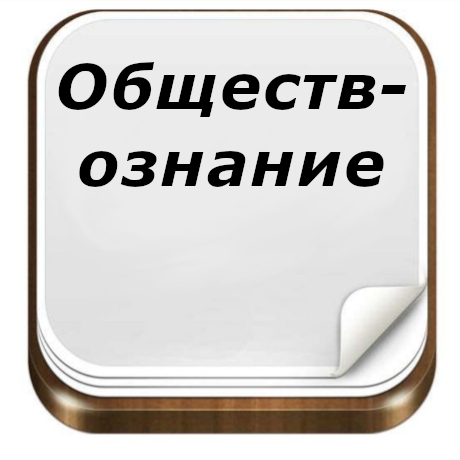
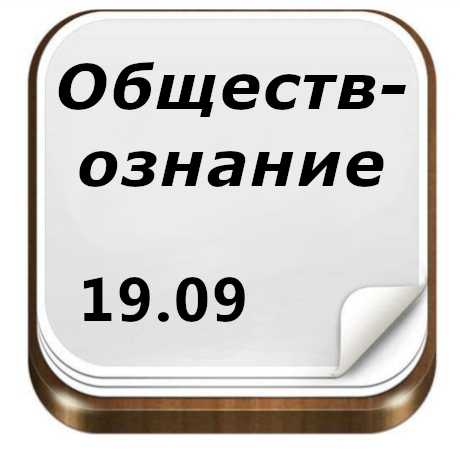
add date on img/delete <p>date</p>

Changed region(s): [[0.1826, 0.5783, 0.5478, 0.7]]

diff --git a/index.html b/index.html
@@ -31,7 +31,6 @@
                     <figure>
                         <a href="https://forms.gle/5eWYEhSzEtLGjJE18">
                             <img src="images/1.jpg" alt="Обществознание">
-                            <p>19.09</p>
                         </a>
                     </figure>
                 </div>
@@ -42,7 +41,6 @@
                     <figure>
                         <a href="https://forms.gle/dueKa9HebCEeFTmu6">
                             <img src="images/2.jpg" alt="Русский язык">
-                            <p>21.09</p>
                         </a>
                     </figure>
                 </div>
@@ -53,7 +51,6 @@
                     <figure>
                         <a href="https://forms.gle/nUPg8xz5vrHEQFcA7">
                             <img src="images/3.jpg" alt="Физкультура">
-                            <p>23.09</p>
                         </a>
                     </figure>
                 </div>
@@ -64,7 +61,6 @@
                     <figure>
                         <a href="https://forms.gle/s1fqMJyVnSru4rLa8">
                             <img src="images/4.jpg" alt="Английский язык">
-                            <p>26.09</p>
                         </a>
                     </figure>
                 </div>
@@ -75,7 +71,6 @@
                     <figure>
                         <a href="https://forms.gle/CBNo3GWZ3kmcwQmXA">
                             <img src="images/5.jpg" alt="Физика">
-                            <p>28.09</p>
                         </a>
                     </figure>
                 </div>
@@ -86,7 +81,6 @@
                     <figure>
                         <a href="https://forms.gle/dCT7chQpYkNxm6K76">
                             <img src="images/6.jpg" alt="Экономика">
-                            <p>30.09</p>
                         </a>
                     </figure>
                 </div>
@@ -97,7 +91,6 @@
                     <figure>
                         <a href="https://forms.gle/VoLoNYZudZdnUfXn7">
                             <img src="images/7.jpg" alt="Искусство (МХК)">
-                            <p>30.09</p>
                         </a>
                     </figure>
                 </div>
@@ -108,7 +101,6 @@
                     <figure>
                         <a href="https://forms.gle/3MuonFpMtBMe1oeE6">
                             <img src="images/8.jpg" alt="Экология">
-                            <p>03.10</p>
                         </a>
                     </figure>
                 </div>
@@ -119,7 +111,6 @@
                     <figure>
                         <a href="https://forms.gle/AvtHyX63z27STDSF6">
                             <img src="images/9.jpg" alt="История">
-                            <p>03.10</p>
                         </a>
                     </figure>
                 </div>
@@ -130,7 +121,6 @@
                     <figure>
                         <a href="https://forms.gle/cjEQsQNW6qcheWwk9">
                             <img src="images/10.jpg" alt="Химия">
-                            <p>05.10</p>
                         </a>
                     </figure>
                 </div>
@@ -141,7 +131,6 @@
                     <figure>
                         <a href="https://forms.gle/2CwQR4xcSP1sfwCF8">
                             <img src="images/11.jpg" alt="ОБЖ">
-                            <p>07.10</p>
                         </a>
                     </figure>
                 </div>
@@ -152,7 +141,6 @@
                     <figure>
                         <a href="https://forms.gle/ietioKanf7VupoWeA">
                             <img src="images/12.jpg" alt="Право">
-                            <p>10.10</p>
                         </a>
                     </figure>
                 </div>
@@ -163,7 +151,6 @@
                     <figure>
                         <a href="https://forms.gle/AdyV3hqR25tmqNyJA">
                             <img src="images/13.jpg" alt="Литература">
-                            <p>10.10</p>
                         </a>
                     </figure>
                 </div>
@@ -174,7 +161,6 @@
                     <figure>
                         <a href="https://forms.gle/Nk5pT5f82Rnhybzp8">
                             <img src="images/14.jpg" alt="Биология">
-                            <p>12.10</p>
                         </a>
                     </figure>
                 </div>
@@ -185,7 +171,6 @@
                     <figure>
                         <a href="https://forms.gle/t6JYm36MRsjWu3mq8">
                             <img src="images/15.jpg" alt="Астрономия">
-                            <p>14.10</p>
                         </a>
                     </figure>
                 </div>
@@ -196,7 +181,6 @@
                     <figure>
                         <a href="https://forms.gle/aUvSzMnBjjXiuoYE6">
                             <img src="images/16.jpg" alt="Технология">
-                            <p>17.10</p>
                         </a>
                     </figure>
                 </div>
@@ -207,7 +191,6 @@
                     <figure>
                         <a href="https://forms.gle/ff4f6BCkyWVgijXY9">
                             <img src="images/17.jpg" alt="География">
-                            <p>17.10</p>
                         </a>
                     </figure>
                 </div>
@@ -218,7 +201,6 @@
                     <figure>
                         <a href="https://forms.gle/h9AuyFqzzWLDBHNS6">
                             <img src="images/18.jpg" alt="Математика">
-                            <p>19.10</p>
                         </a>
                     </figure>
                 </div>
@@ -229,7 +211,6 @@
                     <figure>
                         <a href="https://forms.gle/XL8jsEFR2CwP9Ud59">
                             <img src="images/19.jpg" alt="Информатика">
-                            <p>26.10</p>
                         </a>
                     </figure>
                 </div>

diff --git a/style.css b/style.css
@@ -156,62 +156,11 @@ a:hover, a:active {
     margin-left: 100px;
 }
 
-.portfolio-content figure a p {
-    display: block;
-    position: absolute;
-    bottom: 50px;
-    left: 150px;
-    font-size: 30px;
-    font-weight: 600;
-}
 .portfolio-content figure img {
     display: block;
     width: 80%;
     height: auto;
     min-height: 80%;
-}
-
-@media screen and (max-width: 576px) {
-    .portfolio-content figure a p {
-        display: block;
-        position: absolute;
-        bottom: 40px;
-        left: 150px;
-        font-size: 30px;
-        font-weight: 600;
-    }
-}
-
-@media screen and (max-width: 768px) {
-    .portfolio-content figure a p {
-        display: block;
-        position: absolute;
-        bottom: 40px;
-        left: 150px;
-        font-size: 30px;
-        font-weight: 600;
-    }
-}
-
-@media screen and (max-width: 992px) {
-    .portfolio-content figure a p {
-        display: block;
-        position: absolute;
-        bottom: 40px;
-        left: 150px;
-        font-size: 30px;
-        font-weight: 600;
-    }
-}
-@media screen and (max-width: 1200px) {
-    .portfolio-content figure a p {
-        display: block;
-        position: absolute;
-        bottom: 30px;
-        left: 140px;
-        font-size: 30px;
-        font-weight: 600;
-    }
 }
 
 .portfolio-content .entry-content {
